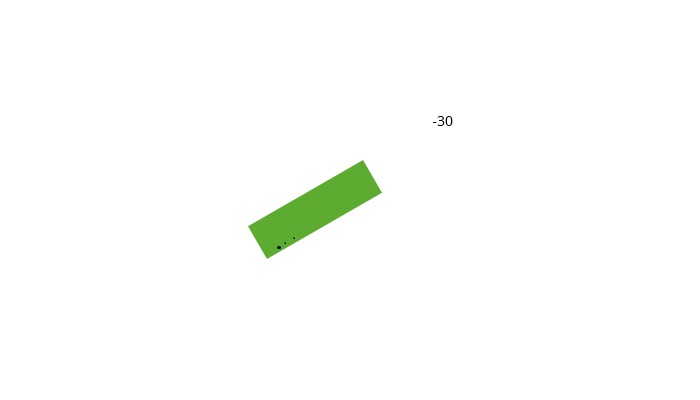
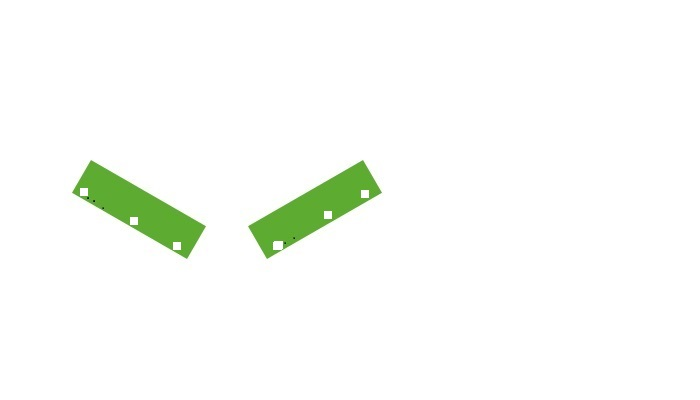
cant create cuttedImg

diff --git a/src/main/java/com/pages/Page7/Recognizer.java b/src/main/java/com/pages/Page7/Recognizer.java
@@ -33,26 +33,146 @@ public class Recognizer {
   private String outPathMain = Constants.imgPath + "lpr\\";
   private String outPath = Constants.imgPath + "lpr\\";
   private String contourPath = "";
+  private String contourOutPath = "";
+
 
   public static void main(String[] args) {
     System.loadLibrary(Core.NATIVE_LIBRARY_NAME);
     Recognizer ir = new Recognizer();
     File f = new File(Constants.imgPath + "\\cars\\regnums\\YRR146.jpg");
+//    File f = new File(Constants.imgPath + "\\cars\\111\\-30.jpg");
     int thresh = 100;
-    ir.recognize(f, thresh);
+    ir.recognize2(f, thresh);
+  }
+
+  private void recognize2(File file, int thresh) {
+    System.loadLibrary(Core.NATIVE_LIBRARY_NAME);
+    object = new ImgObject(file);
+    String fileNameWithOutExt = FilenameUtils.removeExtension(file.getName());
+    outPath = outPathMain + fileNameWithOutExt + "\\";
+    clearFolder(outPath);
+
+    Mat original = copy(object.getOriginal());
+    Mat filtered = filterImage(object.getOriginal(), thresh);
+    object.setFiltered(copy(filtered));
+
+    List<MatOfPoint> contours = new ArrayList<>();
+    contours = findContours(filtered);
+
+    //loop if contours found
+    if ((contours != null) && (contours.size() > 0)) {
+      System.out.println("total: " + contours.size());
+      Rect bestRect = null;
+      List<Mat> plates = new ArrayList<>();
+      Imgcodecs.imwrite(outPath + "threshold.jpg", filtered);
+
+      //loop through valid contours
+      int i = 0;
+      for (MatOfPoint c : contours) {
+        contourOutPath = outPath + i + "\\";
+        new File(contourOutPath).mkdirs();
+
+        //create rect around contour
+        MatOfPoint2f pointsArea = new MatOfPoint2f(c.toArray());
+        RotatedRect rotatedRect = Imgproc.minAreaRect(pointsArea);
+        Point rotatedRectPoints[] = new Point[4];
+        rotatedRect.points(rotatedRectPoints);
+        Rect rect = Imgproc.boundingRect(new MatOfPoint(rotatedRectPoints));
+        //create contour mini image
+        Mat contourImg = new Mat(filtered, rect);
+        Imgcodecs.imwrite(contourOutPath + "contour.jpg", contourImg);
+        //rotate contours by rect angle
+        Mat rotatedImg = rotateImage2(contourImg, rotatedRect);
+        Imgcodecs.imwrite(contourOutPath + "rotated.jpg", rotatedImg);
+
+        //cut large contour from rotated image
+        Mat cuttedImg = cutLargeContour(rotatedImg);
+
+
+        i++;
+      }
+
+
+    }
+    //contours not found
+    else {
+      System.out.println("Contours not found, change thresh and try again");
+    }
+    object.saveImages(outPath);
+  }
+
+  private Mat cutLargeContour(Mat rotatedImg) {
+    if (rotatedImg == null) {
+      System.out.println("rotated NULL");
+      return null;
+    }
+    Mat copy = copy(rotatedImg);
+    List<MatOfPoint> contours = new ArrayList<>();
+    Imgproc.findContours(copy, contours, new Mat(), RETR_TREE, Imgproc.CHAIN_APPROX_SIMPLE);
+    Mat cuttedImg = new Mat();
+    for (MatOfPoint c : contours) {
+      MatOfPoint2f points = new MatOfPoint2f(c.toArray());
+      RotatedRect rotatedRect = Imgproc.minAreaRect(points);
+      Point rotRectPoints[] = new Point[4];
+      rotatedRect.points(rotRectPoints);
+      Rect rect = Imgproc.boundingRect(new MatOfPoint(rotRectPoints));
+
+      int rectArea = (int) rect.area();
+
+      int imgArea = (int) (0.7 * copy.size().area());
+//      Rect rectCrop = new Rect(rect.x, rect.y, rect.width, rect.height);
+
+      if (rotatedRect != null && copy.width() > rotatedRect.size.width
+              && copy.height() < rotatedRect.size.height) {
+        if (rectArea > imgArea) {
+//        if (bounding_rect != null && mMatInputFrame.width() > bounding_rect.width
+//                && mMatInputFrame.height() > bounding_rect.height)
+          System.out.println("Image: " + imgArea);
+          System.out.println("Rect: " + rectArea);
+          System.out.println("****");
+//        Imgcodecs.imwrite(contourOutPath + "rotatedContours.jpg", copy);
+//        Imgproc.rectangle(copy, rect.tl(), rect.br(), green, 1);
+          //toDo ... CANT CREATE CUTTED_IMG?????
+          cuttedImg = new Mat(rotatedImg, rect);
+//        break;
+//        Mat cuttedImg = new Mat(new Size(rect.width, rect.height), CvType.CV_8UC1);
+//        Mat cuttedImg = new Mat(bi.getHeight(), bi.getWidth(), CvType.CV_8UC1);
+
+//        cuttedImg = new Mat(copy, rect);
+//        Imgcodecs.imwrite(contourPath + "cutted.jpg", cuttedImg);
+//        return cuttedImg;
+        }
+      }
+    }
+    return rotatedImg;
   }
 
 
-
-
-
-
-
-
-
-
-
-
+  // Rotate license plate image
+  private Mat rotateImage2(Mat img, RotatedRect rotatedRect) {
+    int angle = (int) rotatedRect.angle;
+    if (rotatedRect.size.width > rotatedRect.size.height) {
+      angle = -angle;
+    }
+    int rotatedAngle = 0;
+    if (angle == 0) {
+      return img;
+    }
+    if (angle < 0) {
+      rotatedAngle = 90 - Math.abs(angle);
+    }
+    if (angle > 0) {
+      rotatedAngle = -angle;
+    }
+    Mat temp = new Mat();
+    img.copyTo(temp);
+    Mat rotatedImg = new Mat(2, 3, CvType.CV_32FC1);
+    Mat destination = new Mat(img.rows(), img.cols(), img.type());
+    Point center = new Point(destination.cols() / 2, destination.rows() / 2);
+    rotatedImg = Imgproc.getRotationMatrix2D(center, rotatedAngle, 1);
+    Imgproc.warpAffine(temp, destination, rotatedImg, destination.size());
+    return destination;
+  }
 
 
   // Filter and search license number on image
@@ -162,7 +282,7 @@ public class Recognizer {
     System.out.println("Total plates: " + plates.size());
     for (Mat plate : plates) {
       BufferedImage shearedPlate = cutAndShearRotatedPlate(plate, angle);
-      if(shearedPlate != null) {
+      if (shearedPlate != null) {
         Mat result = bufferedImage2Mat(shearedPlate);
 
 //        Mat blur = new Mat();
@@ -384,5 +504,15 @@ public class Recognizer {
     byte[] data = ((DataBufferByte) bi.getRaster().getDataBuffer()).getData();
     mat.put(0, 0, data);
     return mat;
+  }
+
+
+  private Mat copy(Mat original) {
+    if (original == null) {
+      return null;
+    }
+    Mat copy = new Mat();
+    original.copyTo(copy);
+    return copy;
   }
 }
